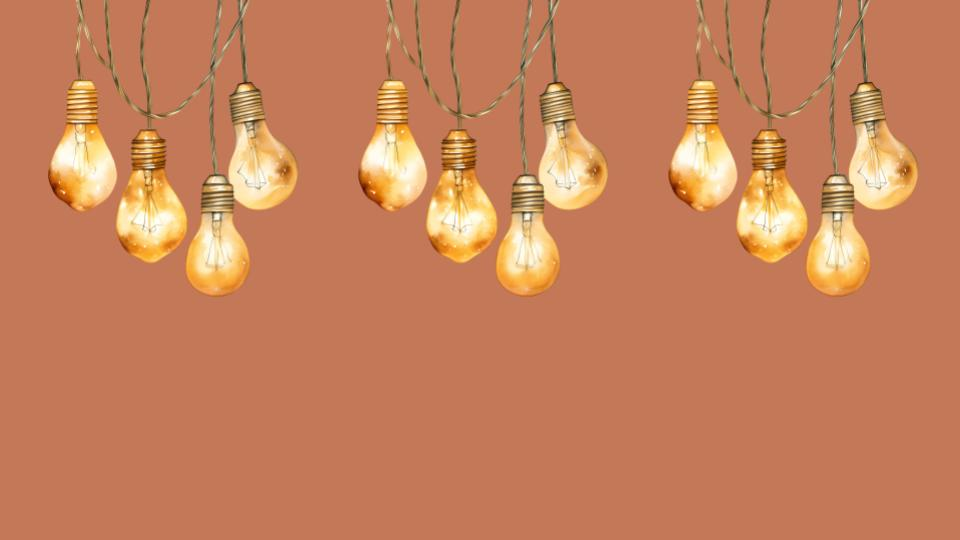
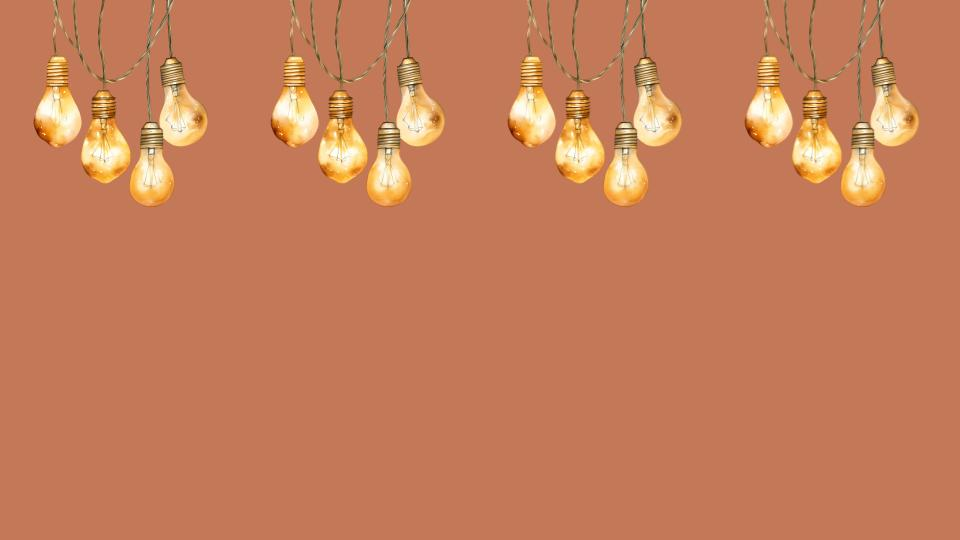
CSS continued

Changed region(s): [[0.0312, 0.0, 0.9688, 0.563]]

diff --git a/form.html b/form.html
@@ -11,22 +11,25 @@
 
   <body>
     <header>
-      My Personal Brewfinder
-      <section class="theme-img"> </section>
+      <h1>My Brewfinder</h1>
+      <section class="theme-img"></section>
     </header>
-    <img src="" alt=""> <!--Logo/image next to the form possibly?-->
-    <div>
-      <h1>Find the Perfect Brew</h1>
+    
+    <div class="parent-container">
+      
       <div class="split right">
         <div class="centered">
       <form id="search-form">
+        <label for="brew-input">Brew Type:</label>
         <select id="brew-input">
-          <option value="" disabled selected>Brew Type...</option>
+          
+          <option value="" disabled selected>Select</option>
           <option value="Coffee">Coffee</option>
           <option value="Beer">Beer</option>
         </select>
+        <label for="country-input">Country:</label>
         <select id="country-input">
-          <option value="" disabled selected>Select a Country...</option>
+          <option value="" disabled selected>Select</option>
           <option value="Country #1">Country #1</option>
           <option value="Country #2">Country #2</option>
           <option value="Country #3">Country #3</option>
@@ -37,8 +40,9 @@
         </select>
         <!--Not sure if we want to put cities in or just have the results give the main big cities in the country.
         We'd have to change the search so that only corresponding cities show up for their contries but I can look into that too.-->
+        <label for="city-input">City:</label>
         <select id="city-input">
-          <option value="" disabled selected>Select a City...</option>
+          <option value="" disabled selected>Select</option>
           <option value="City #1">City #1</option>
           <option value="City #2">City #2</option>
           <option value="City #3">City #3</option>
@@ -51,7 +55,8 @@
     </div>
 <div class="split left">
   <div class="centered">
-  <img class="woman" src="../My-Brew-Finder/assets/images/sapiens.webp" alt="avatar woman">
+    <h2>Find the Perfect Brew</h2>
+  <img src="../My-Brew-Finder/assets/images/sapiens.webp" alt="avatar woman">
   </div>
   </div>
 </div>

diff --git a/assets/css/form.css b/assets/css/form.css
@@ -8,41 +8,32 @@
     --matcha: #c3d69f;
   }
 .theme-img {
-    height: 200px;
+    height: 400px;
     width: 100%;
     margin-top: 25px;
-    opacity: 75%;
+    /* opacity: 75%; */
     
     /* margin-bottom: 25px; */
-    background-image: url("../images/tile-string-lights.jpg");
-    /* background-size: cover;  */
-    /* background-position: center; */
-    /* object-fit: contain; */
+    background-image: url("../images/Single_tungsten.png");
+    background-size: cover; 
+    background-position: center;
+    object-fit: contain;
 }
 
-.woman { 
-    opacity: 85%;
+.parent-container {
+    padding: 60px;
 
 }
+
+
 body {
     background: #c37857; 
     font-family: "Shadows Into Light", cursive;
     font-weight: 400;
     font-style: normal;
+    
 }
 
-/* .circle {
-    float: left;
-    height: 500px;
-    width: 500px;
-    padding: 75px;
-    
-   font-family: "Dancing Script", cursive;
-    font-optical-sizing: auto;
-   
-    background-image: url("../images/sapiens.webp");
-
-} */
 
 input[type=text], select {
     width: 100%;
@@ -52,6 +43,7 @@ input[type=text], select {
     border: 1px solid #ccc;
     border-radius: 4px;
     box-sizing: border-box;
+    font-family: "Shadows Into Light", cursive;
   }
   
   input[type=submit] {
@@ -63,10 +55,17 @@ input[type=text], select {
     border: none;
     border-radius: 4px;
     cursor: pointer;
+    
   }
+
+button {
+    font-family: "Shadows Into Light", cursive;
+    font-size: medium;
+}
   
   input[type=submit]:hover {
     background-color: #45a049;
+    
   }
   
   div {
@@ -76,7 +75,7 @@ input[type=text], select {
   }
   /* Split the screen in half */
 .split {
-  height: 100%;
+  /* height: 100%; */
   width: 50%;
   position: fixed;
   z-index: 1;
@@ -84,7 +83,7 @@ input[type=text], select {
   display: flex;
 }
 
-/ Control the left side /
+
 .left {
   left: 0;
   
